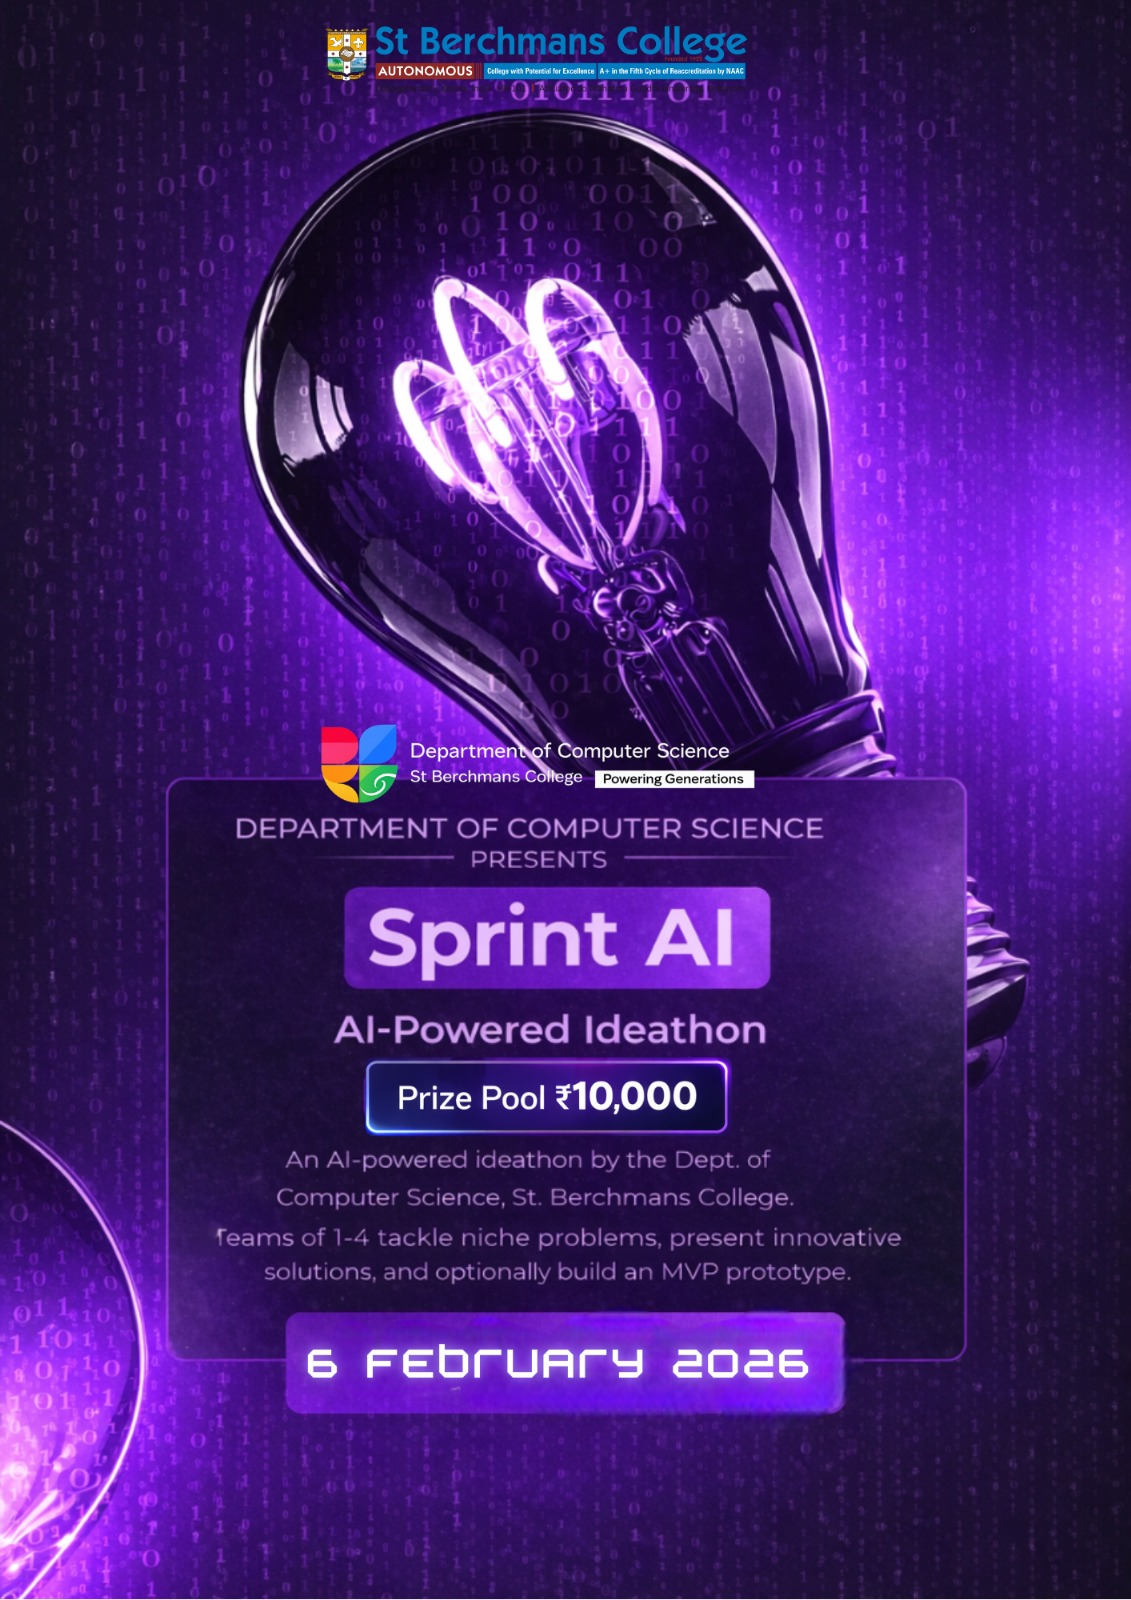
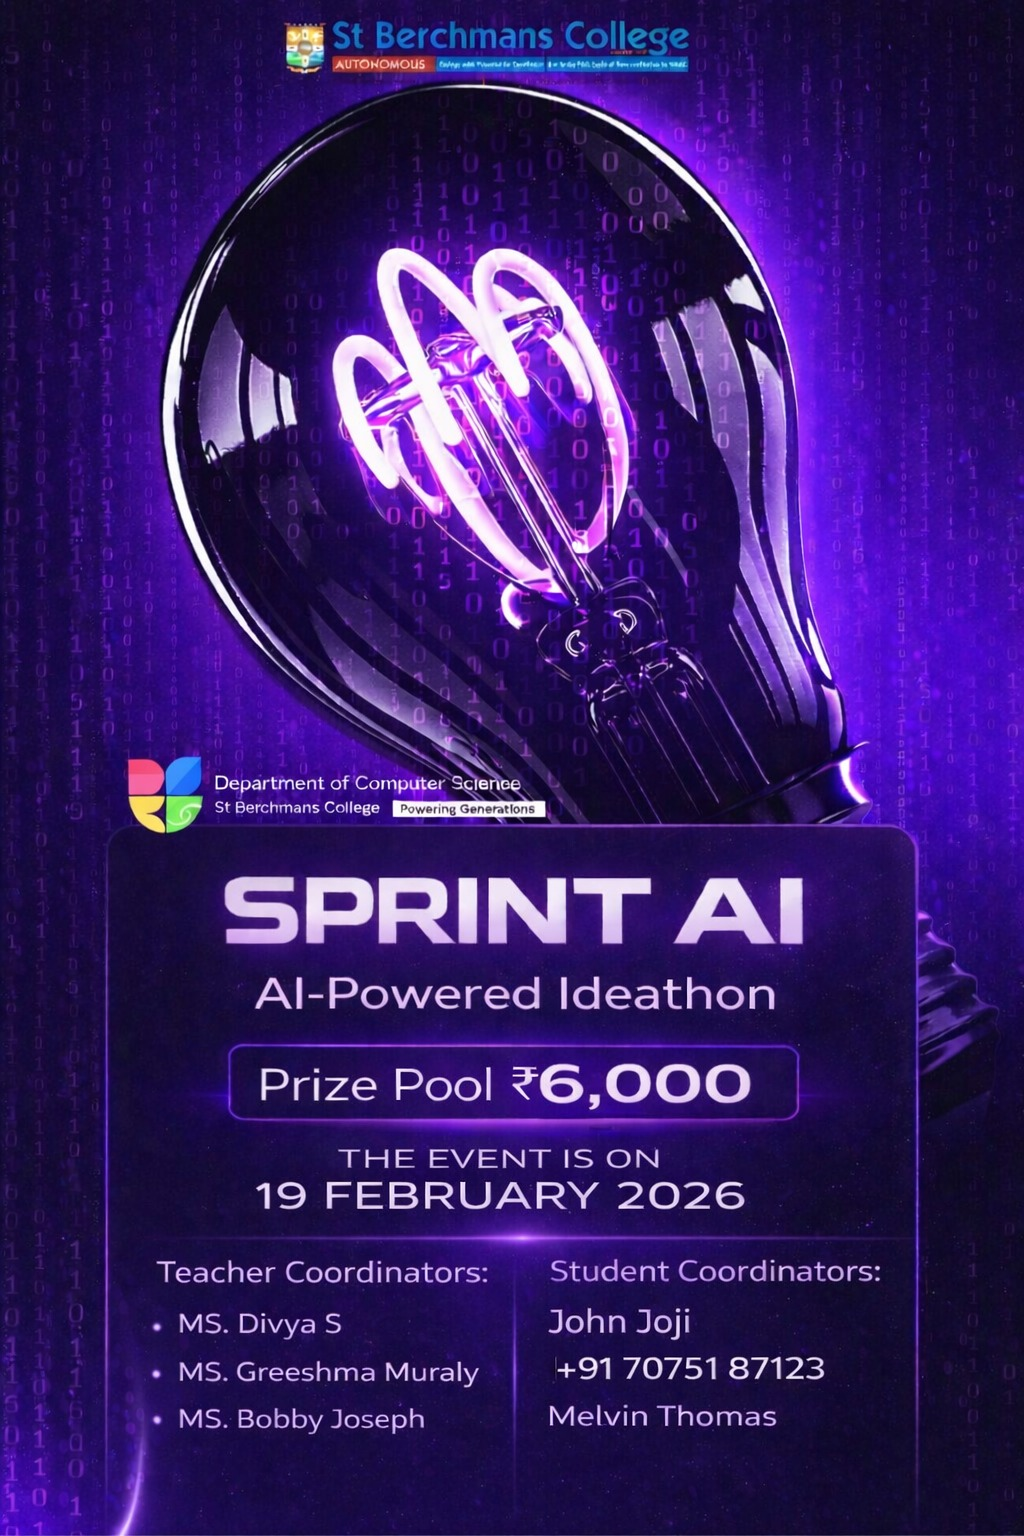
Fix white screen by correcting image extension and rename Sponsors to Benefactors

diff --git a/src/components/EventsSection.tsx b/src/components/EventsSection.tsx
@@ -3,7 +3,7 @@ import { Button } from "@/components/ui/button";
 import { ArrowRight, Banknote, Trophy } from "lucide-react";
 import sprintAiImage from "@/assets/event-sprint-ai.jpg";
 import webXcelerateImage from "@/assets/event-webxcelerate.jpg";
-import pitchMindAiImage from "@/assets/event-pitch-mind-ai.jpg";
+import pitchMindAiImage from "@/assets/event-pitch-mind-ai.png";
 import EventDetailsDialog, { EventDetails } from "./EventDetailsDialog";
 
 const events: EventDetails[] = [
@@ -12,7 +12,7 @@ const events: EventDetails[] = [
     title: "Sprint AI",
     category: "AI-Powered Ideathon",
     description: "An AI-powered ideathon by the Dept. of Computer Science, St. Berchmans College. Teams tackle niche problems, present innovative solutions, and optionally build an MVP prototype. This is your chance to showcase your problem-solving skills and creativity using AI technologies.",
-    prize: "₹10,000",
+    prize: "₹6000",
     date: "19 February 2026",
     time: "9:30 AM onwards",
     teamSize: "1-4 Members",
@@ -33,7 +33,8 @@ const events: EventDetails[] = [
       "Pitching Round: 10 mins per team (7 min pitch + 3 min Q&A).",
       "Evaluation Focus: Innovation, Technical feasibility, Impact & ethics.",
       "Core solution must be AI-powered. At least one part must be implemented or demonstrated.",
-      "All solutions must be ethical and socially beneficial."
+      "All solutions must be ethical and socially beneficial.",
+      "Spot registration will end on 9:30 AM on 19th February."
     ],
     registrationLink: "https://forms.gle/E2eEoXzu9jxpcbT39",
     fee: "₹400",
@@ -47,7 +48,7 @@ const events: EventDetails[] = [
     title: "WebXcelerate AI",
     category: "AI-Based Web Designing Competition",
     description: "A team-based AI web designing competition. Showcase your frontend design skills power-packed with AI tools. Create stunning, responsive web interfaces and present your concepts to the judges.",
-    prize: "₹10,000",
+    prize: "₹6000",
     date: "19 February 2026",
     time: "9:30 AM onwards",
     teamSize: "2-4 Members",
@@ -68,7 +69,8 @@ const events: EventDetails[] = [
       "Earliest completion gets priority.",
       "Teams must present their website: Concept, Design approach, Tools used.",
       "All Students should confidently participate in the presentation stage",
-      "Judges may ask questions during presentation; all members should respond confidently."
+      "Judges may ask questions during presentation; all members should respond confidently.",
+      "Spot registration will end on 9:30 AM on 19th February."
     ],
     registrationLink: "https://forms.gle/TspZSzLhNbSRRxhe9",
     fee: "₹400",
@@ -82,7 +84,7 @@ const events: EventDetails[] = [
     title: "Pitch Mind AI",
     category: "Project Idea Presentation Event",
     description: "Pitch Mind AI is an offline project idea presentation event conducted by the Department of Computer Science, St. Berchmans College, Changanassery. The event aims to identify and encourage students with innovative software project or startup ideas, with a preference for AI-powered solutions (mandatory). All proposed solutions must be ethical, responsible, and socially beneficial.",
-    prize: "₹10,000",
+    prize: "₹6000",
     date: "19 February 2026",
     time: "9:30 AM onwards",
     teamSize: "1-2 Members",
@@ -99,7 +101,8 @@ const events: EventDetails[] = [
       "Submitted projects will be evaluated through presentations at the college.",
       "If the number of registered participants or teams exceeds 10, an online preliminary elimination round will be conducted before the offline evaluation.",
       "All participants will receive a participation certificate.",
-      "The most promising and impactful project will be recognized with a cash prize."
+      "The most promising and impactful project will be recognized with a cash prize.",
+      "Spot registration will end on 9:30 AM on 19th February."
     ],
     registrationLink: "https://forms.gle/fHmjQkizPfAjsw8h7",
     fee: "₹200",

diff --git a/src/components/HeroSection.tsx b/src/components/HeroSection.tsx
@@ -60,7 +60,7 @@ const HeroSection = () => {
         </div>
 
         {/* Stats */}
-        <div className="grid grid-cols-3 gap-8 mt-16 max-w-2xl mx-auto animate-fade-in" style={{ animationDelay: '0.5s' }}>
+        <div className="grid grid-cols-2 gap-8 mt-16 max-w-2xl mx-auto animate-fade-in" style={{ animationDelay: '0.5s' }}>
           <div className="text-center">
             <div className="font-display text-3xl md:text-4xl font-bold text-primary mb-1">4</div>
             <div className="text-sm text-muted-foreground">Events</div>
@@ -69,10 +69,7 @@ const HeroSection = () => {
             <div className="font-display text-3xl md:text-4xl font-bold text-primary mb-1">200+</div>
             <div className="text-sm text-muted-foreground">Participants</div>
           </div>
-          <div className="text-center">
-            <div className="font-display text-3xl md:text-4xl font-bold text-primary mb-1">₹30K</div>
-            <div className="text-sm text-muted-foreground">Prize Pool</div>
-          </div>
+
         </div>
       </div>
 

diff --git a/src/components/SponsorsSection.tsx b/src/components/SponsorsSection.tsx
@@ -31,13 +31,13 @@ const SponsorsSection = () => {
         {/* Section Header */}
         <div className="text-center mb-16">
           <span className="inline-block px-4 py-1 rounded-full bg-primary/10 text-primary text-sm font-medium mb-4">
-            Our Partners
+            Our Support
           </span>
           <h2 className="font-display text-4xl md:text-5xl font-bold mb-4">
-            Our <span className="text-gradient">Sponsors</span>
+            Our <span className="text-gradient">Benefactors</span>
           </h2>
           <p className="text-muted-foreground max-w-2xl mx-auto">
-            We're grateful to our sponsors who make AIGNITE possible
+            We're grateful to our benefactors who make AIGNITE possible
           </p>
           <div className="w-24 h-1 bg-gradient-to-r from-primary to-secondary mx-auto rounded-full mt-6" />
         </div>

diff --git a/src/components/EventDetailsDialog.tsx b/src/components/EventDetailsDialog.tsx
@@ -96,6 +96,12 @@ const EventDetailsDialog = ({ event, isOpen, onClose }: EventDetailsDialogProps)
             <div>
               <h4 className="font-display font-semibold text-foreground mb-2">About the Event</h4>
               <p className="text-muted-foreground text-sm leading-relaxed">{event.description}</p>
+              <div className="mt-4 p-3 rounded-lg bg-primary/10 border border-primary/20 flex items-center gap-3">
+                <Clock className="w-5 h-5 text-primary flex-shrink-0" />
+                <p className="text-sm font-medium text-foreground">
+                  Spot registration ends at <span className="text-primary font-bold">9:30 AM on 19th February</span>.
+                </p>
+              </div>
             </div>
 
             {/* Highlights */}

diff --git a/src/components/ExhibitionSection.tsx b/src/components/ExhibitionSection.tsx
@@ -48,6 +48,7 @@ const ExhibitionSection = () => {
             <div className="p-4 rounded-xl bg-primary/10 border border-primary/30 mb-8">
               <p className="text-foreground font-semibold">✓ Free Registration</p>
               <p className="text-foreground font-semibold">✓ Participants will receive a Participation Certificate</p>
+              <p className="text-foreground font-semibold">✓ Registration ends on February 16th</p>
             </div>
 
             {/* Features Grid */}

diff --git a/src/components/Footer.tsx b/src/components/Footer.tsx
@@ -44,7 +44,7 @@ const Footer = () => {
                 <a href="#exhibition" className="text-muted-foreground hover:text-primary transition-colors">Exhibition</a>
               </li>
               <li>
-                <a href="#sponsors" className="text-muted-foreground hover:text-primary transition-colors">Sponsors</a>
+                <a href="#sponsors" className="text-muted-foreground hover:text-primary transition-colors">Benefactors</a>
               </li>
             </ul>
           </div>

diff --git a/src/components/Navbar.tsx b/src/components/Navbar.tsx
@@ -6,7 +6,7 @@ const navLinks = [
   { name: "About", href: "#about" },
   { name: "Events", href: "#events" },
   { name: "Exhibition", href: "#exhibition" },
-  { name: "Sponsors", href: "#sponsors" },
+  { name: "Benefactors", href: "#sponsors" },
 ];
 
 const Navbar = () => {
